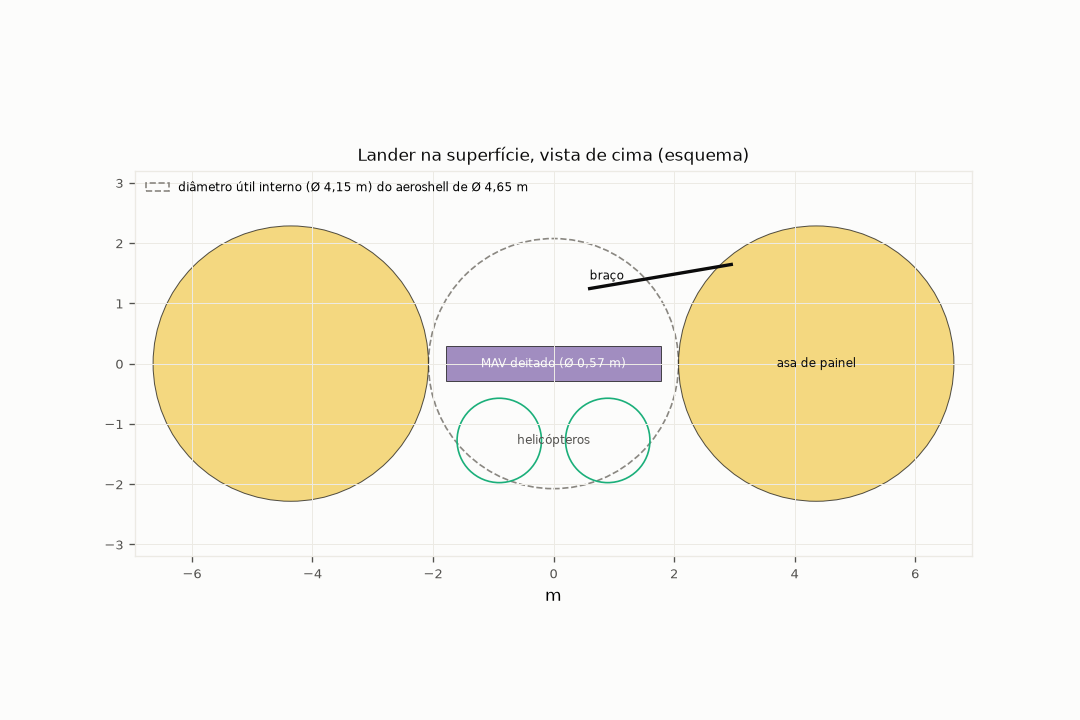
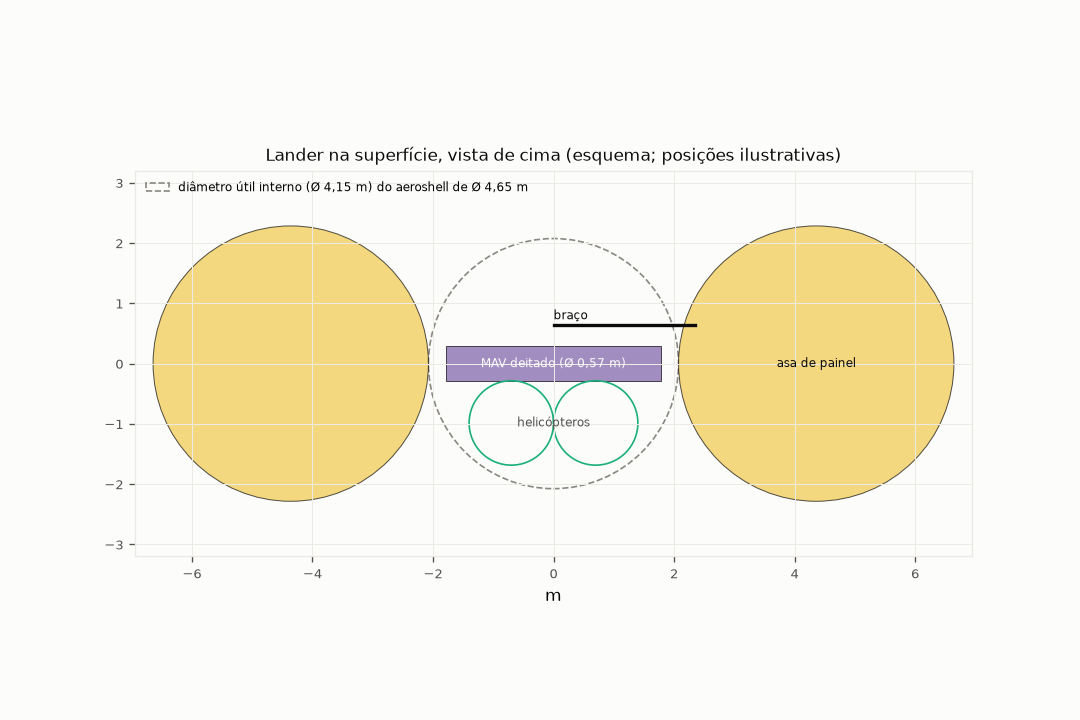
Etapa 7.1: correções da revisão (números lidos de config/results, alternativa de um par com e sem cilindro, notas nas Fases 2 e 3)
- envelope_arranjo.py: plataforma, CCRS, diâmetros do MAV, PAF e folga radial lidos de config/results; alternativa de um
  par por estágio calculada com e sem o cilindro central, com folga radial; EES sem afirmação de encaixe; vista de
  superfície com posições ilustrativas e braço no comprimento real.
- P-082: orientação do CCRS e contra da alternativa; F218 vira número reservado (artigo é a F23); passos da leitura do
  STEP do Falcon na fonte do perfil.
- Notas datadas nos relatórios das Fases 2 e 3 sobre a correção das listas de premissas.

Claude-Session: https://claude.ai/code/session_01JtSYAW4kQdfF2hoWnhjUAJ

diff --git a/tools/envelope_arranjo.py b/tools/envelope_arranjo.py
@@ -91,27 +91,39 @@ def main():
         vol = volumes(x["propelente_kg"], of, rho_ox, rho_fu, ull)
         d = esfera(max(vol["tanque_oxidante_m3"], vol["tanque_combustivel_m3"]) / pares)
         d1 = esfera(max(vol["tanque_oxidante_m3"], vol["tanque_combustivel_m3"]))
+        # alternativa de um par por estágio: com o cilindro central (esferas dos dois lados dele) e sem ele (esferas
+        # encostadas no eixo, folga radial entre elas)
         tanques_o[nome] = {**vol, "propelente_kg": x["propelente_kg"], "pares": pares, "diametro_esfera_m": d,
                            "raio_conjunto_m": rc + f_rad + d,
-                           "alternativa_um_par": {"diametro_esfera_m": d1, "raio_conjunto_m": d1 + f_rad / 2}}
+                           "alternativa_um_par": {"diametro_esfera_m": d1, "raio_com_cilindro_m": rc + f_rad + d1,
+                                                  "raio_sem_cilindro_m": d1 + f_rad / 2}}
     cc = [float(x) for x in ob["ccrs_m"]["dimensoes"]["valor"]]
     conj_o, h = [], 0.0
     for nome, rot in (("insercao_marte", "Estágio de inserção em Marte"), ("retorno", "Estágio de retorno")):
         t = tanques_o[nome]
         conj_o.append({"conjunto": rot, "h0_m": h, "h1_m": h + t["diametro_esfera_m"], "raio_m": t["raio_conjunto_m"]})
         h += t["diametro_esfera_m"] + f_ent
-    conj_o.append({"conjunto": "CCRS (3,4 × 0,5 × 2 m, deitado)", "h0_m": h, "h1_m": h + cc[2], "raio_m": math.hypot(cc[0] / 2, cc[1] / 2)})
+    rot_cc = " × ".join(f"{x:g}" for x in cc).replace(".", ",")
+    conj_o.append({"conjunto": f"CCRS ({rot_cc} m; a maior dimensão na horizontal, P-082)", "h0_m": h, "h1_m": h + cc[2], "raio_m": math.hypot(cc[0] / 2, cc[1] / 2)})
     fal = cad["coifas"]["falcon_padrao"]["perfil"]
     perf_f = ([float(x) for x in fal["altura_m"]], [float(x) for x in fal["raio_m"]])
     for c in conj_o:
         c["margem_radial_m"] = margem_conjunto(perf_f, c["h0_m"], c["h1_m"], c["raio_m"])
+    for c, nome in zip(conj_o[:2], ("insercao_marte", "retorno")):
+        alt = tanques_o[nome]["alternativa_um_par"]
+        h1 = c["h0_m"] + alt["diametro_esfera_m"]
+        alt["margem_com_cilindro_m"] = margem_conjunto(perf_f, c["h0_m"], h1, alt["raio_com_cilindro_m"])
+        alt["margem_sem_cilindro_m"] = margem_conjunto(perf_f, c["h0_m"], h1, alt["raio_sem_cilindro_m"])
     oe = pcfg["orbitador"]["energia"]
     d_af = en["orbitador"]["afelio_marte_ua"]
     area_o = (en["orbitador"]["adotada"]["painel_w_afelio"] * d_af ** 2
               / (v(pcfg["lander"]["energia"]["densidade_area_painel_w_m2"]) * v(oe["fator_perdas_painel"])))
     orbitador = {"tanques": tanques_o, "conjuntos": conj_o, "altura_total_m": conj_o[-1]["h1_m"],
                  "topo_envelope_m": perf_f[0][-1], "cabe": all(c["margem_radial_m"] >= 0 for c in conj_o) and conj_o[-1]["h1_m"] <= perf_f[0][-1],
-                 "area_paineis_m2": area_o, "ees_diametro_m": v(ob["ees_diametro_m"]), "ccrs_m": cc}
+                 "area_paineis_m2": area_o, "ees_diametro_m": v(ob["ees_diametro_m"]), "ccrs_m": cc,
+                 "raio_cilindro_central_m": rc, "folga_radial_m": f_rad,
+                 "plataforma_kg": next(x["massa_kg"] for k, x in comp_o.items() if k.startswith("Plataforma")),
+                 "paf_mm": v(ob["cilindro_central_diametro_m"]) * 1000}
 
     # ---------------- lander: estágio de cruzeiro + aeroshell (opções de diâmetro) no Vulcan de 15,5 m
     vul = cad["coifas"]["vulcan_15_5"]["perfil"]
@@ -169,6 +181,7 @@ def main():
         mavs[k] = {"diametro_m": dmav, "segmentos": [{"item": a, "comprimento_m": b, "tipo": c} for a, b, c in segs], "comprimento_m": comp,
                    "dentro_do_diametro_util": {kk: comp <= oo["diametro_util_interno_m"] for kk, oo in opcoes.items()}}
     ref_mav = {"limite_src_m": v(mv["comprimento_max_src_m"]), "limite_2019_m": v(mv["comprimento_max_2019_m"]),
+               "diametro_src_m": v(mv["diametro_opcoes_m"]["src_2022"]), "diametro_2019_m": v(mv["diametro_opcoes_m"]["restricao_2019"]),
                "bowles_comprimento_m": v(mv["bowles_analogo"]["comprimento_m"]), "bowles_diametro_m": v(mv["bowles_analogo"]["diametro_m"]),
                "bowles_glow_kg": v(mv["bowles_analogo"]["glow_kg"]), "glom_kg": est_m[0]["massa_inicial_kg"]}
 
@@ -189,18 +202,25 @@ def escreve_md(o):
     md = ["# Envelope e arranjo dos veículos (gerado por tools/envelope_arranjo.py)", "",
           "Dimensões derivadas de results/ e config/cad.yaml (fontes e premissas). Comprimentos em m, volumes em m³, massas em kg.", "",
           "## Orbitador no Falcon Heavy (coifa padrão, volume útil com mantas)", "",
-          "| Estágio | Propelente | Oxidante | Combustível | Tanque de oxidante | Tanque de combustível | Pares | Ø da esfera | Ø da esfera com 1 par |",
-          "| :- | -: | -: | -: | -: | -: | -: | -: | -: |"]
+          "| Estágio | Propelente | Oxidante | Combustível | Tanque de oxidante | Tanque de combustível | Pares | Ø da esfera |",
+          "| :- | -: | -: | -: | -: | -: | -: | -: |"]
     for k, rot in (("insercao_marte", "Inserção em Marte"), ("retorno", "Retorno")):
         t = ob["tanques"][k]
         md.append(f"| {rot} | {br(t['propelente_kg'], 0)} | {br(t['oxidante_kg'], 0)} | {br(t['combustivel_kg'], 0)} | {br(t['tanque_oxidante_m3'], 3)} | "
-                  f"{br(t['tanque_combustivel_m3'], 3)} | {t['pares']} | {br(t['diametro_esfera_m'])} | {br(t['alternativa_um_par']['diametro_esfera_m'])} |")
+                  f"{br(t['tanque_combustivel_m3'], 3)} | {t['pares']} | {br(t['diametro_esfera_m'])} |")
+    md += ["", "Alternativa de um par por estágio (P-082):", "",
+           "| Estágio | Ø da esfera | Raio com o cilindro central | Folga radial | Raio sem o cilindro central | Folga radial |", "| :- | -: | -: | -: | -: | -: |"]
+    for k, rot in (("insercao_marte", "Inserção em Marte"), ("retorno", "Retorno")):
+        a = ob["tanques"][k]["alternativa_um_par"]
+        md.append(f"| {rot} | {br(a['diametro_esfera_m'])} | {br(a['raio_com_cilindro_m'])} | {br(a['margem_com_cilindro_m'])} | "
+                  f"{br(a['raio_sem_cilindro_m'])} | {br(a['margem_sem_cilindro_m'])} |")
     md += ["", "| Conjunto | Altura da base | Altura do topo | Raio do conjunto | Folga radial ao envelope |", "| :- | -: | -: | -: | -: |"]
     for c in ob["conjuntos"]:
         md.append(f"| {c['conjunto']} | {br(c['h0_m'])} | {br(c['h1_m'])} | {br(c['raio_m'])} | {br(c['margem_radial_m'])} |")
     md += ["", f"Altura do conjunto empilhado {br(ob['altura_total_m'])} m, contra {br(ob['topo_envelope_m'])} m do topo do volume útil: "
            f"**{'cabe' if ob['cabe'] else 'não cabe'}**. Painéis do orbitador: {br(ob['area_paineis_m2'], 1)} m² (dobrados no lançamento; empacotamento na 7.2). "
-           f"EES: Ø {br(ob['ees_diametro_m'], 3)} m, dentro do CCRS. A plataforma (614 kg) não tem volume dimensionado nesta etapa.", "",
+           f"EES: Ø {br(ob['ees_diametro_m'], 3)} m (o encaixe no CCRS não foi conferido). A plataforma ({br(ob['plataforma_kg'], 0)} kg) não tem volume "
+           "dimensionado nesta etapa.", "",
            "## Lander no Vulcan de 15,5 m (estágio de cruzeiro + aeroshell)", "",
            f"Massa de entrada do lander: {br(la['massa_entrada_kg'], 0)} kg. Semiângulo da frente do aeroshell: {br(la['semiangulo_graus'], 0)}°.", "",
            "| Opção de aeroshell | Diâmetro | Massa de entrada da referência | Massa por área: lander / referência (kg/m²) | Altura do conjunto (P-083) | Folga radial no Vulcan | Diâmetro útil interno |",
@@ -224,11 +244,12 @@ def escreve_md(o):
     for i, s in enumerate(mv[ks[0]]["segmentos"]):
         md.append(f"| {s['item']} | " + " | ".join(br(mv[k]["segmentos"][i]["comprimento_m"]) for k in ks) + " |")
     md.append("| **Comprimento total** | " + " | ".join(f"**{br(mv[k]['comprimento_m'])}**" for k in ks) + " |")
-    md += ["", f"Referências: limite do MAV do MSR {br(rf['limite_src_m'])} m × Ø 0,50 m [F35]; restrição de 2019 {br(rf['limite_2019_m'])} m × Ø 0,57 m [F216]; "
+    md += ["", f"Referências: limite do MAV do MSR {br(rf['limite_src_m'])} m × Ø {br(rf['diametro_src_m'])} m [F35]; restrição de 2019 "
+           f"{br(rf['limite_2019_m'])} m × Ø {br(rf['diametro_2019_m'])} m [F216]; "
            f"Bowles, MAV de {br(rf['bowles_glow_kg'], 1)} kg: {br(rf['bowles_comprimento_m'])} m × Ø {br(rf['bowles_diametro_m'])} m [F46]. "
            f"GLOM do nosso MAV: {br(rf['glom_kg'], 1)} kg."]
     for k in ks:
-        md.append(f"- Ø {br(mv[k]['diametro_m'])} m: cabe deitado no diâmetro útil interno do aeroshell? "
+        md.append(f"- Ø {br(mv[k]['diametro_m'])} m: cabe deitado no diâmetro útil interno do aeroshell (sem o estreitamento da casca traseira)? "
                   + "; ".join(f"{nomes.get(kk, kk)}: {'sim' if ok else 'não'}" for kk, ok in mv[k]["dentro_do_diametro_util"].items()))
     md += ["", "Vistas: orbitador_na_coifa.png, lander_na_coifa.png, lander_superficie.png, mav.png (esquemas, não desenho de projeto)."]
     (SAIDA / "envelope.md").write_text("\n".join(md) + "\n", encoding="utf-8")
@@ -262,7 +283,7 @@ def vistas(o):
     # orbitador na coifa do Falcon (corte lateral)
     fig, ax = _eixo("Orbitador no volume útil da coifa do Falcon (esquema)")
     _envelope(ax, o["coifas"]["falcon"], "volume útil (STEP do fabricante)")
-    rc = (ob["conjuntos"][0]["raio_m"] - ob["tanques"]["insercao_marte"]["diametro_esfera_m"]) - 0.05
+    rc = ob["raio_cilindro_central_m"]
     for c, k in zip(ob["conjuntos"][:2], ("insercao_marte", "retorno")):
         d = ob["tanques"][k]["diametro_esfera_m"]
         for s, cor in ((-1, COR["oxidante"]), (1, COR["combustivel"])):
@@ -271,7 +292,7 @@ def vistas(o):
     cc = ob["conjuntos"][2]
     ax.add_patch(Rectangle((-ob["ccrs_m"][0] / 2, cc["h0_m"]), ob["ccrs_m"][0], cc["h1_m"] - cc["h0_m"], fc=COR["carga"], ec=TINTA, lw=0.6, alpha=0.6))
     ax.text(0, (cc["h0_m"] + cc["h1_m"]) / 2, "CCRS", ha="center", va="center", color=SUPERFICIE, fontsize=8)
-    ax.text(0, -0.5, "plano do PAF de 1575 mm", ha="center", color=TINTA_2, fontsize=7)
+    ax.text(0, -0.5, f"plano do PAF de {ob['paf_mm']:.0f} mm", ha="center", color=TINTA_2, fontsize=7)
     ax.set_xlim(-3, 3)
     ax.set_ylim(-1, 12)
     ax.set_xlabel("m")
@@ -300,7 +321,7 @@ def vistas(o):
     plt.close(fig)
 
     # lander na superfície (vista de cima): diâmetro útil interno, asas abertas, MAV deitado, helicópteros e braço
-    fig, ax = _eixo("Lander na superfície, vista de cima (esquema)", figsize=(9, 6))
+    fig, ax = _eixo("Lander na superfície, vista de cima (esquema; posições ilustrativas)", figsize=(9, 6))
     op = la["opcoes_aeroshell"]["srl_duplo"]
     ru = op["diametro_util_interno_m"] / 2
     rot_ae = f"diâmetro útil interno (Ø {op['diametro_util_interno_m']:.2f} m) do aeroshell de Ø {op['diametro_m']:.2f} m".replace(".", ",")
@@ -312,12 +333,15 @@ def vistas(o):
     m = mv[list(mv)[-1]]
     ax.add_patch(Rectangle((-m["comprimento_m"] / 2, -m["diametro_m"] / 2), m["comprimento_m"], m["diametro_m"], fc=COR["carga"], ec=TINTA, lw=0.6, alpha=0.7))
     ax.text(0, 0, f"MAV deitado (Ø {m['diametro_m']:.2f} m)".replace(".", ","), ha="center", va="center", color=SUPERFICIE, fontsize=7)
+    # posições ilustrativas: helicópteros lado a lado dentro do círculo, abaixo do MAV; braço horizontal no comprimento real
     dr = la["helicoptero"]["diametro_rotor_m"]
+    yh = -(m["diametro_m"] / 2 + dr / 2)
     for s in (-1, 1):
-        ax.add_patch(Circle((s * 0.9, -ru + dr / 2 + 0.1), dr / 2, fc="none", ec=COR["hidrazina"], lw=1))
-    ax.text(0, -ru + dr / 2 + 0.1, "helicópteros", ha="center", va="center", fontsize=7, color=TINTA_2)
-    ax.plot([0.6, 0.6 + la["braco_m"]], [ru * 0.6, ru * 0.6 + 0.4], color=TINTA, lw=2)
-    ax.text(0.6, ru * 0.6 + 0.15, "braço", fontsize=7, color=TINTA)
+        ax.add_patch(Circle((s * dr / 2, yh), dr / 2, fc="none", ec=COR["hidrazina"], lw=1))
+    ax.text(0, yh, "helicópteros", ha="center", va="center", fontsize=7, color=TINTA_2)
+    yb = m["diametro_m"] / 2 + dr / 4
+    ax.plot([0, la["braco_m"]], [yb, yb], color=TINTA, lw=2)
+    ax.text(0, yb + 0.1, "braço", fontsize=7, color=TINTA)
     lim = ru + da + 0.3
     ax.set_xlim(-lim, lim)
     ax.set_ylim(-3.2, 3.2)

diff --git a/docs/fontes.md b/docs/fontes.md
@@ -27,7 +27,7 @@ Toda constante ou dado externo usado no código cita uma entrada desta lista no 
 | F20 | Desai, P. N.; Lyons, D. T.; Tooley, J.; Kangas, J. *Entry, Descent, and Landing Operations Analysis for the Stardust Re-Entry Capsule*. AIAA/AAS Astrodynamics Specialist Conference (NTRS 20060028186): "The inertial entry velocity and flight-path angle for Stardust were 12.9 km/s and –8.2 deg". Mesmo valor em Desai, P. N.; Mitcheltree, R. A.; Cheatwood, F. M., *Entry Trajectory Issues for the Stardust Sample Return Capsule* (NTRS 20050042027) | Limite de reentrada P-011 | https://ntrs.nasa.gov/citations/20060028186 ; https://ntrs.nasa.gov/citations/20050042027 |
 | F21 | Wercinski, P.; Munk, M.; Powell, R.; Hall, J. *Aerocapture Technology Development Needs for Outer Planet Exploration*. NASA/TM-2002-211386: "Aerocapture has never been performed". Dutta, S. et al. *Investigation of Aerocapture Earth-Based Demonstration Options*. 22nd International Planetary Probe Workshop, 2025 (NTRS 20250006035, resumo): "aerocapture has never been demonstrated at any planetary destination" | Ressalva sobre a aerocaptura (ADR 0003) | https://ntrs.nasa.gov/citations/20020077966 ; https://ntrs.nasa.gov/citations/20250006035 |
 | F22 | Yau, E. (ESA). *Mars Sample Return – The Earth Return Orbiter: Securing Mars*. SpaceTech Masters Symposium, ESA/ESTEC, 23/07/2021 ("ESA UNCLASSIFIED – Releasable to the public"), slides 7–8; slide 10, fases da missão do ERO: "5. EP spirals to LMO" | Massas do ERO e da carga útil (`config/carga_util.yaml`) | https://www.tugraz.at/fileadmin/user_upload/tugrazInternal/Studium/Studienangebot/Universitaere_Weiterbildung/SpaceTech/SpaceTech-Edi-YAU-Mars-Sample-Return-Securing-Mars.pdf |
-| F23 | Sarli, B. et al. *NASA's Capture, Containment, and Return System: Bringing Mars samples to Earth*. Acta Astronautica, 2024, doi:10.1016/j.actaastro.2024.05.048, p. 5; §4.1.2, p. 7 do PDF: "with the payload typically consuming 300 W to 500 W" | Massa do CCRS (620 kg); carga do CCRS por modo (Etapa 4.1) | https://ntrs.nasa.gov/api/citations/20240001497/downloads/AA10475%20Final.pdf |
+| F23 | Sarli, B. et al. *NASA's Capture, Containment, and Return System: Bringing Mars samples to Earth*. Acta Astronautica, 2024, doi:10.1016/j.actaastro.2024.05.048, p. 5; §4.1.2, p. 7 do PDF: "with the payload typically consuming 300 W to 500 W"; p. 7, legenda da Fig. 9: "The overall dimensions of CCRS are approximately 3.4 m × 0.5 m × 2 m." (Etapa 7.1) | Massa do CCRS (620 kg); carga do CCRS por modo (Etapa 4.1); dimensões do CCRS (Etapa 7.1) | https://ntrs.nasa.gov/api/citations/20240001497/downloads/AA10475%20Final.pdf |
 | F24 | Corliss, J.; Edquist, K. (NASA LaRC). *Mars Sample Return: Sample Retrieval Lander (SRL) and Earth Entry Vehicle (EEV)*. NASA EDL Seminar, 01/07/2021, slides 10, 27 e 30; slide 10, "Pin-point landing (< 20 m from target)" | Massa e velocidade de entrada da cápsula; risco do pouso perto do depósito (Etapa 2.5) | https://nescacademy.nasa.gov/downloadFile/1127 |
 | F25 | NASA. *Mars Sample Return Independent Review Board-2, Final Report*, 01/09/2023, pp. 24 e 26 | Massa-meta de amostras e número de tubos | https://www.nasa.gov/wp-content/uploads/2023/09/mars-sample-return-independent-review-board-report.pdf |
 | F26 | Karlgaard, C. D. et al. *Mars Sample Return Earth Entry System Helicopter Drop Test Reconstruction* (NTRS 20240007755), Tabela 2; p. 3: "The basic test article geometry is a 52.5-deg sphere-cone shape with a 1.273 m diameter and 0.3146 m nose radius" (Etapa 7.1) | Massa e diâmetro do artigo de teste do EES (contexto) | https://ntrs.nasa.gov/citations/20240007755 |
@@ -222,7 +222,7 @@ Toda constante ou dado externo usado no código cita uma entrada desta lista no 
 | F215 | Edquist, K. T.; Dyakonov, A. A.; Wright, M. J.; Tang, C. Y. (NASA LaRC/ARC). *Aerothermodynamic Design of the Mars Science Laboratory Heatshield*, 2009 (NTRS 20090024218). PDF p. 3: "The MSL aeroshell is a 4.5-meter diameter spherically-blunted 70-degree half-angle cone forebody with a triconic afterbody" | Semiângulo do aeroshell (Etapa 7.1) | https://ntrs.nasa.gov/citations/20090024218 |
 | F216 | McCollum, J.; Schnell, A.; Yaghoubi, D. et al. *Development Concepts for Mars Ascent Vehicle (MAV) Solid and Hybrid Vehicle Systems*, 2019 (NTRS 20190002123). p. 3, tabela de restrições: "Vehicle Length 3 m (max.)", "Vehicle Diameter 0.57 m (max.)", "Vehicle Mass 400 kg (max.)", "Payload Mass 18 kg" | Envelope do MAV (Etapa 7.1) | https://ntrs.nasa.gov/citations/20190002123 |
 | F217 | NASA/JPL. *Ingenuity Mars Helicopter Landing* (press kit), fevereiro de 2021. p. 12: "Height: 1.6 feet (0.49 meters)" | Altura do helicóptero (Etapa 7.1) | https://www.jpl.nasa.gov/news/press_kits/ingenuity/download/ingenuity_landing_press_kit.pdf |
-| F218 | Sarli, B. V.; Bowman, E. M.; Cataldo, G. et al. *NASA's Capture, Containment, and Return System: Bringing Mars samples to Earth*. Acta Astronautica, 2024 (NTRS 20240001497). p. 5: "The approximate mass of the CCRS payload is 620 kg"; p. 7, legenda da Fig. 9: "The overall dimensions of CCRS are approximately 3.4 m × 0.5 m × 2 m." | Dimensões do CCRS (Etapa 7.1) | https://ntrs.nasa.gov/citations/20240001497 |
+| F218 | (número reservado, não usado: o artigo do CCRS é a F23) | — | — |
 
 Referências previstas para etapas seguintes (ainda não usadas no código):
 (nenhuma pendente)

diff --git a/results/etapa7.1/envelope.md b/results/etapa7.1/envelope.md
@@ -4,18 +4,25 @@ Dimensões derivadas de results/ e config/cad.yaml (fontes e premissas). Comprim
 
 ## Orbitador no Falcon Heavy (coifa padrão, volume útil com mantas)
 
-| Estágio | Propelente | Oxidante | Combustível | Tanque de oxidante | Tanque de combustível | Pares | Ø da esfera | Ø da esfera com 1 par |
-| :- | -: | -: | -: | -: | -: | -: | -: | -: |
-| Inserção em Marte | 3 210 | 1 999 | 1 211 | 1,470 | 1,467 | 2 | 1,12 | 1,41 |
-| Retorno | 1 709 | 1 064 | 645 | 0,783 | 0,781 | 2 | 0,91 | 1,14 |
+| Estágio | Propelente | Oxidante | Combustível | Tanque de oxidante | Tanque de combustível | Pares | Ø da esfera |
+| :- | -: | -: | -: | -: | -: | -: | -: |
+| Inserção em Marte | 3 210 | 1 999 | 1 211 | 1,470 | 1,467 | 2 | 1,12 |
+| Retorno | 1 709 | 1 064 | 645 | 0,783 | 0,781 | 2 | 0,91 |
+
+Alternativa de um par por estágio (P-082):
+
+| Estágio | Ø da esfera | Raio com o cilindro central | Folga radial | Raio sem o cilindro central | Folga radial |
+| :- | -: | -: | -: | -: | -: |
+| Inserção em Marte | 1,41 | 2,25 | 0,06 | 1,44 | 0,88 |
+| Retorno | 1,14 | 1,98 | 0,32 | 1,17 | 1,14 |
 
 | Conjunto | Altura da base | Altura do topo | Raio do conjunto | Folga radial ao envelope |
 | :- | -: | -: | -: | -: |
 | Estágio de inserção em Marte | 0,00 | 1,12 | 1,96 | 0,36 |
 | Estágio de retorno | 1,22 | 2,13 | 1,74 | 0,56 |
-| CCRS (3,4 × 0,5 × 2 m, deitado) | 2,23 | 4,23 | 1,72 | 0,57 |
+| CCRS (3,4 × 0,5 × 2 m; a maior dimensão na horizontal, P-082) | 2,23 | 4,23 | 1,72 | 0,57 |
 
-Altura do conjunto empilhado 4,23 m, contra 11,35 m do topo do volume útil: **cabe**. Painéis do orbitador: 14,3 m² (dobrados no lançamento; empacotamento na 7.2). EES: Ø 1,273 m, dentro do CCRS. A plataforma (614 kg) não tem volume dimensionado nesta etapa.
+Altura do conjunto empilhado 4,23 m, contra 11,35 m do topo do volume útil: **cabe**. Painéis do orbitador: 14,3 m² (dobrados no lançamento; empacotamento na 7.2). EES: Ø 1,273 m (o encaixe no CCRS não foi conferido). A plataforma (614 kg) não tem volume dimensionado nesta etapa.
 
 ## Lander no Vulcan de 15,5 m (estágio de cruzeiro + aeroshell)
 
@@ -46,7 +53,7 @@ Massa de entrada do lander: 4 429 kg. Semiângulo da frente do aeroshell: 70°.
 | **Comprimento total** | **3,79** | **3,56** |
 
 Referências: limite do MAV do MSR 2,99 m × Ø 0,50 m [F35]; restrição de 2019 3,00 m × Ø 0,57 m [F216]; Bowles, MAV de 312,5 kg: 2,19 m × Ø 0,52 m [F46]. GLOM do nosso MAV: 386,8 kg.
-- Ø 0,50 m: cabe deitado no diâmetro útil interno do aeroshell? Mars 2020: sim; SRL, lançamento duplo: sim
-- Ø 0,57 m: cabe deitado no diâmetro útil interno do aeroshell? Mars 2020: sim; SRL, lançamento duplo: sim
+- Ø 0,50 m: cabe deitado no diâmetro útil interno do aeroshell (sem o estreitamento da casca traseira)? Mars 2020: sim; SRL, lançamento duplo: sim
+- Ø 0,57 m: cabe deitado no diâmetro útil interno do aeroshell (sem o estreitamento da casca traseira)? Mars 2020: sim; SRL, lançamento duplo: sim
 
 Vistas: orbitador_na_coifa.png, lander_na_coifa.png, lander_superficie.png, mav.png (esquemas, não desenho de projeto).

diff --git a/docs/etapa7.1_envelope.md b/docs/etapa7.1_envelope.md
@@ -63,7 +63,7 @@ Fase 7, CAD paramétrico no Onshape. A ordem das fases foi decidida no ADR 0021:
 | Diâmetro do MAV | (a) 0,50 m (limite do MSR) | encaixa no padrão do MSR | 3,79 m de comprimento |
 | | (b) 0,57 m (restrição de 2019) | 3,56 m, mais curto | também acima do limite de 3 m |
 | Arranjo dos tanques do orbitador | (a) dois pares por estágio (base) | conjunto mais baixo | mais tanques e linhas |
-| | (b) um par por estágio | menos tanques (esferas de 1,41 e 1,14 m) | conjunto mais alto |
+| | (b) um par por estágio | menos tanques (esferas de 1,41 e 1,14 m) | conjunto mais alto; com o cilindro central, folga radial de 0,06 m no estágio de inserção (0,88 m sem o cilindro) |
 
 **Proposta do agente (o Fabio decide):**
 - **Aeroshell:** (b), 4,65 m, porque a massa de entrada do lander está mais perto da classe do SRL. A folga radial no Vulcan
@@ -93,6 +93,10 @@ Fase 7, CAD paramétrico no Onshape. A ordem das fases foi decidida no ADR 0021:
 - **Dimensões sem fonte:** as do R-4D-11 e do contêiner de amostras não foram encontradas (P-086).
 - **Densidades:** a do MON-3 e a da hidrazina são premissas (P-078, P-079).
 - **Coifas:** o perfil do Falcon foi lido de um arquivo CAD, e o do Vulcan, de uma figura. Nenhum dos dois é texto citado.
+  Os passos da leitura do STEP estão na fonte do perfil em `config/cad.yaml`.
+- **MAV deitado no aeroshell:** a conferência usa o diâmetro útil interno, sem o estreitamento da casca traseira
+  (afterbody triconic [F215]).
+- **EES no CCRS:** o encaixe do EES (Ø 1,273 m) no CCRS (3,4 × 0,5 × 2 m) não foi conferido.
 - **Padrão do drone:** o repositório fasn98/AeroDesignFlow não estava acessível com o token desta sessão (ADR 0021). Ele
   é necessário para a 7.2.
 
@@ -101,3 +105,6 @@ As listas `results/fase2/` e `results/fase3/premissas_nao_validadas.md` vinham a
 e a da Fase 3 marcava como "criadas na Fase 3" também as da Fase 4. `tools/lista_premissas.py` foi corrigido: cada lista traz
 só as premissas que existiam ao fim da fase. Com isso, as listas voltam a bater com os relatórios das Fases 2, 3 e 4. A
 lista completa continua em `results/fase1/premissas.md`.
+- **Fase 2:** a lista tem 40 premissas, como na §9 do relatório da Fase 2 depois da nota de 2026-10-27. As notas
+  seguintes do relatório da Fase 2, que contavam a lista acumulada, receberam uma nota (2026-11-02).
+- **Fase 3:** a lista tem 49 premissas, 9 delas criadas na Fase 3, como na §7 do relatório da Fase 3 (nota no relatório).

diff --git a/results/fase1/premissas.md b/results/fase1/premissas.md
@@ -83,7 +83,7 @@
 | P-079 | densidade_da_hidrazina | 1004 | kg/m³ (~25 °C) | NÃO VALIDADA | config/cad.yaml (volume dos tanques de descida do lander, Etapa 7.1) |
 | P-080 | razao_de_mistura_do_cruzeiro_do_lander | 1.65 | adimensional (O/F, massa) | NÃO VALIDADA | config/cad.yaml (tanques do estágio de cruzeiro do lander, 4 × 10N, ADR 0011) |
 | P-081 | fracao_de_ullage_dos_tanques | 0.05 | fração do volume do tanque | NÃO VALIDADA | config/cad.yaml (volume dos tanques, Etapa 7.1) |
-| P-082 | arranjo_dos_tanques | orbitador: 2 pares esféricos por estágio, em quadrado em torno do cilindro central; cruzeiro_lander: 1 par esférico | — | NÃO VALIDADA | config/cad.yaml (arranjo do orbitador e do estágio de cruzeiro, Etapa 7.1) |
+| P-082 | arranjo_dos_tanques | orbitador: 2 pares esféricos por estágio, em quadrado em torno do cilindro central; cruzeiro_lander: 1 par esférico; ccrs: maior dimensão na horizontal | — | NÃO VALIDADA | config/cad.yaml (arranjo do orbitador e do estágio de cruzeiro, Etapa 7.1) |
 | P-083 | altura_do_conjunto_cruzeiro_aeroshell_proporcional_ao_diametro | altura = 3,0 m × (D / 4,5 m) | m | NÃO VALIDADA | config/cad.yaml (conjunto do lander na coifa do Vulcan, Etapa 7.1) |
 | P-084 | propelente_de_descida_proporcional_a_massa_de_entrada | 387 kg × (massa de entrada / 3150 kg), hidrazina, 3 tanques esféricos | kg | NÃO VALIDADA | config/cad.yaml (tanques de descida do lander, Etapa 7.1) |
 | P-085 | geometria_dos_tanques_do_mav | forma: cilindro com tampos hemisféricos no diâmetro interno do MAV; espessura_parede_m: 0.01 | m | NÃO VALIDADA | config/cad.yaml (comprimento do MAV, Etapa 7.1) |

diff --git a/docs/fase2_relatorio.md b/docs/fase2_relatorio.md
@@ -330,3 +330,10 @@ das Fases 2 a 4 foram regenerados; os das etapas anteriores à 2.3 ficam como es
 | Orbitador injetado; Falcon Heavy descartável; Vulcan VC6 | 7.796 kg; +44 %; +6 % | sem mudança |
 
 Lançadores de base (ADR 0020): lander no Vulcan VC4, com o VC6 de reserva; orbitador no Falcon Heavy descartável.
+
+
+## Nota (Etapa 7.1, 2026-11-02): lista de premissas da Fase 2
+`tools/lista_premissas.py` passou a gravar em `results/fase2/premissas_nao_validadas.md` só as premissas que existiam ao
+fim da Fase 2 (P-001 a P-040). Antes, a lista acumulava as premissas das fases seguintes, e as notas acima que citam 41, 43,
+44 e 45 premissas contavam essa lista acumulada. Vigente: 40 premissas, todas NÃO VALIDADAS. A lista completa fica em
+`results/fase1/premissas.md`. O texto acima fica como estava.

diff --git a/docs/fase3_relatorio.md b/docs/fase3_relatorio.md
@@ -197,3 +197,9 @@ das Fases 2 a 4 foram regenerados; os das etapas anteriores à 2.3 ficam como es
 | Orbitador injetado; Falcon Heavy descartável; Vulcan VC6 | 7.796 kg; +44 %; +6 % | sem mudança |
 
 Lançadores de base (ADR 0020): lander no Vulcan VC4, com o VC6 de reserva; orbitador no Falcon Heavy descartável.
+
+
+## Nota (Etapa 7.1, 2026-11-02): lista de premissas da Fase 3
+`tools/lista_premissas.py` passou a gravar em `results/fase3/premissas_nao_validadas.md` só as premissas que existiam ao
+fim da Fase 3 (P-001 a P-049). Antes, a lista acumulava as da Fase 4 e as marcava como "criadas na Fase 3". Vigente: 49
+premissas, todas NÃO VALIDADAS, 9 criadas na Fase 3, como na §7 acima. O texto acima fica como estava.
